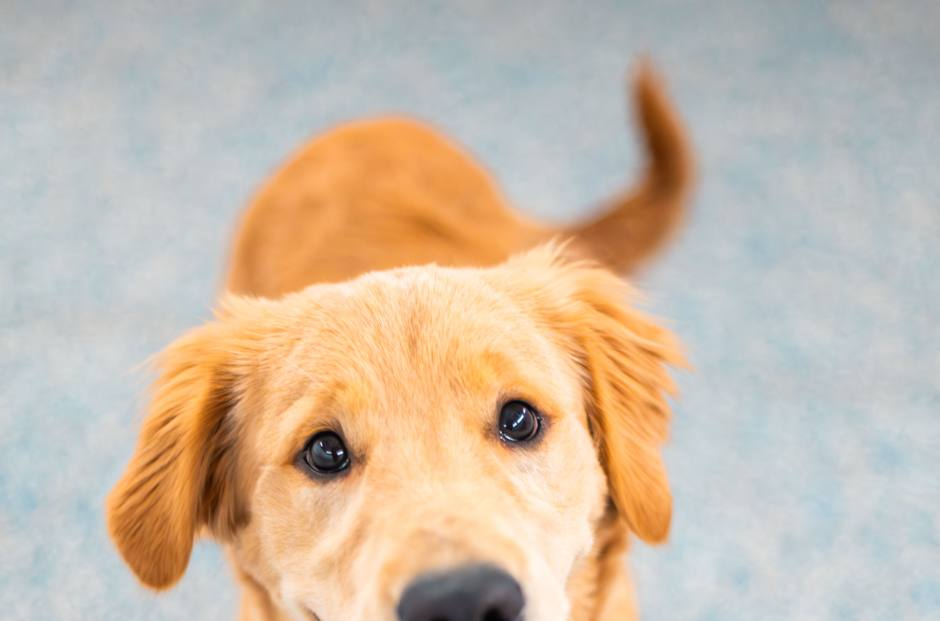
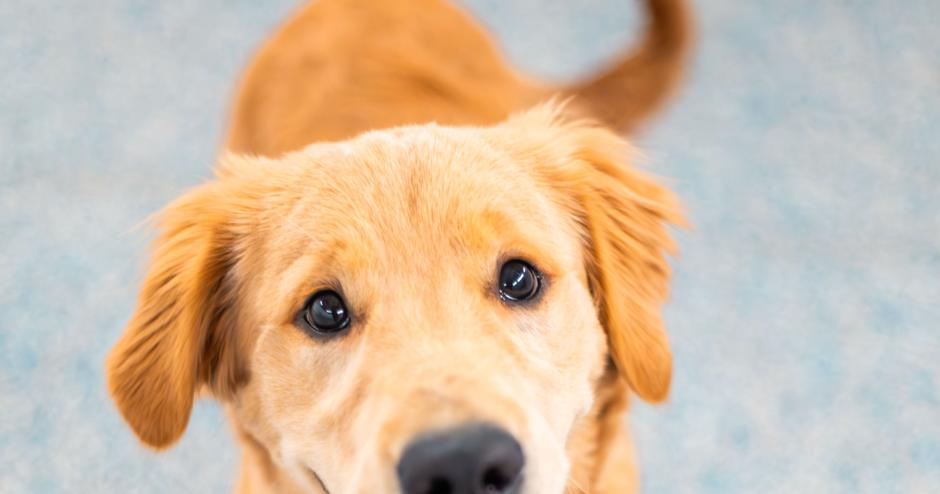
dogizone growth plan: winback1 tighter face crop

diff --git a/decks/reports/dogizone-growth-plan.html b/decks/reports/dogizone-growth-plan.html
@@ -504,7 +504,7 @@
           <div class="em-meta"><b>Email 1 · It's been a while</b> · sends day 90<br>Subject: <b>It's been a while. Look what's new at DogiZone</b> · Preview: New arrivals your dog hasn't sniffed yet.</div>
           <div class="email-frame">
             <div class="em-top"><img src="assets/dogizone/dogizone-logo.jpg" alt="DogiZone"><div>DogiMarket<span>BY DOGIZONE</span></div></div>
-            <img class="em-hero" src="assets/dogizone/em-winback1.jpg" style="height:260px;object-position:50% 85%" alt="">
+            <img class="em-hero" src="assets/dogizone/em-winback1.jpg" style="height:230px;object-position:50% 70%" alt="">
             <div class="em-body">
               <div class="em-h">We miss you (your dog too, probably)</div>
               <p class="em-p">[First name], it's been a few months, and the shelves have changed. New arrivals, seasonal picks, and the same staff who remember your dog's name:</p>
